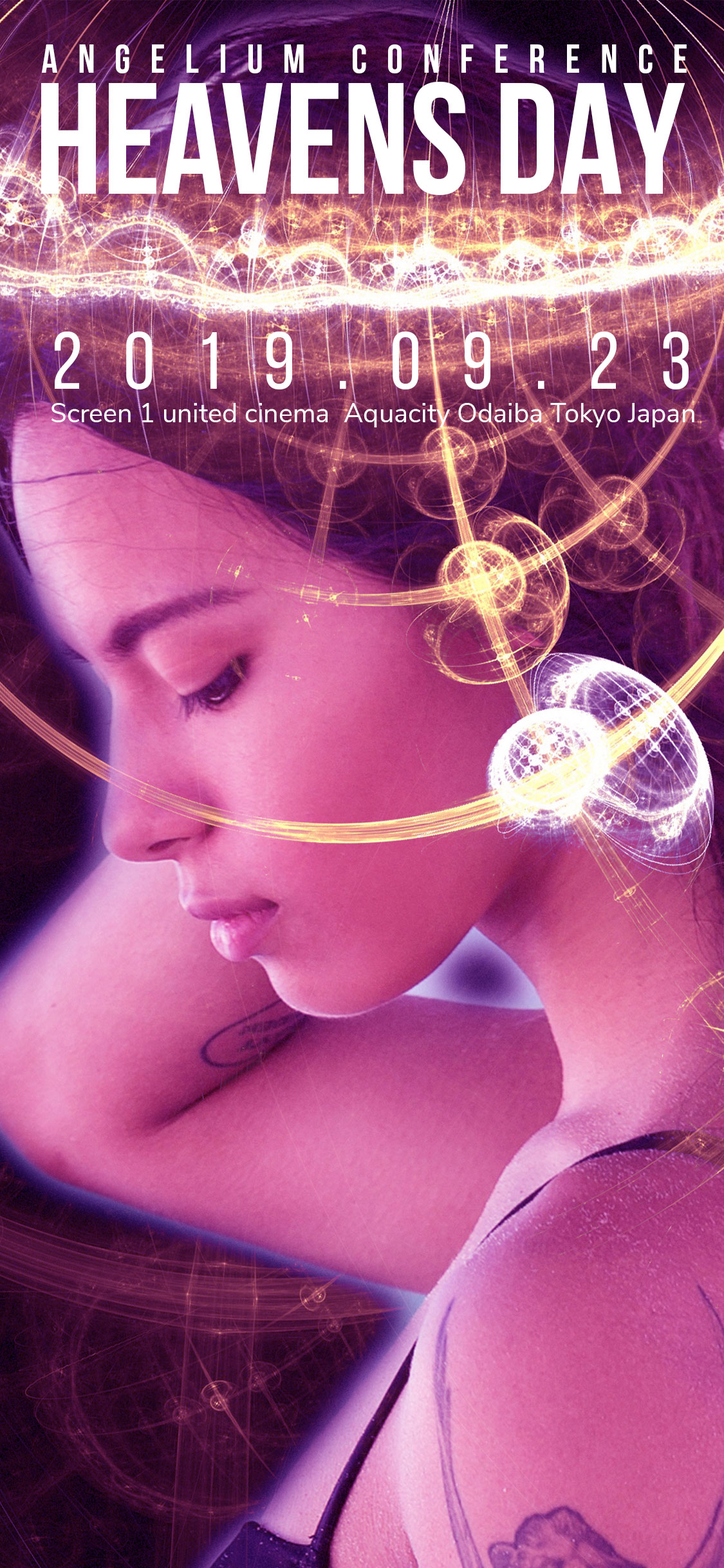
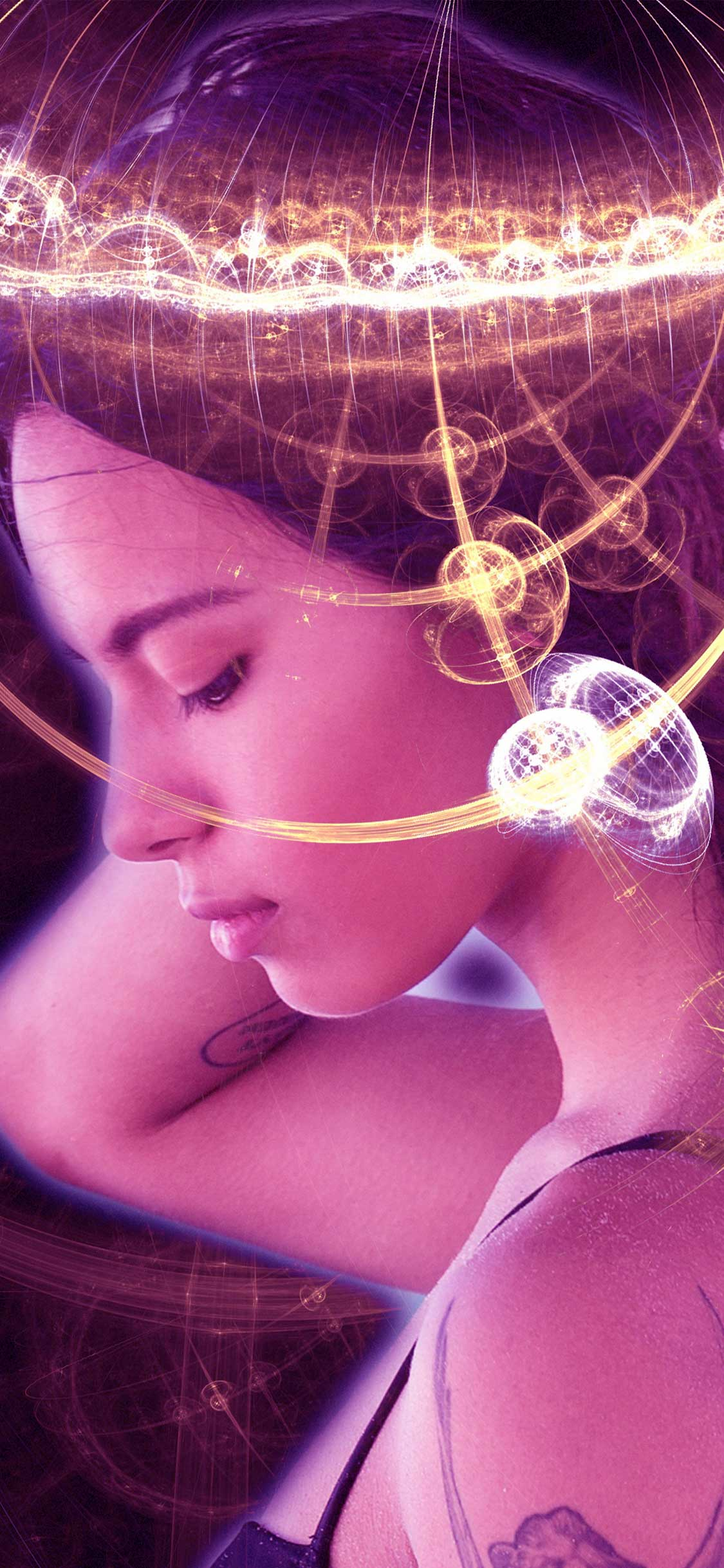
XTicket download with jpeg

diff --git a/src/app/pages/tickets/events-detail/events-detail.component.scss b/src/app/pages/tickets/events-detail/events-detail.component.scss
@@ -240,12 +240,49 @@
     width: 302px;
     height: 645px;
 
+    .event-margin {
+      font-family: nb-theme(font-bebas-bold);
+      text-align: center;
+      position: relative;
+      color: #ffffff;
+      top: 14px;
+      line-height: 0.8;
+
+      .event-sub {
+        font-family: nb-theme(font-bebas);
+        font-size: 20px;
+        letter-spacing: 7px;
+        margin-left: 8px;
+      }
+
+      .event-name {
+        font-size: 63px;
+        letter-spacing: 1px;
+        margin-top: 5px;
+      }
+
+      .event-date {
+        font-size: 34px;
+        letter-spacing: 10px;
+        font-family: nb-theme(font-bebas);
+        margin-top: 56px;
+        margin-left: 8px;
+      }
+
+      .event-location {
+        font-family: nb-theme(font-nunito);
+        font-size: 11px;
+        margin-top: 8px;
+        letter-spacing: 0.5px;
+      }
+    }
+
     .qrcode-margin {
       font-family: nb-theme(font-bebas-bold);
       text-align: center;
       position: relative;
       color: #ffffff;
-      top: 56%;
+      top: 30%;
 
       .ticket-name {
         font-size: 45px;

diff --git a/src/app/pages/tickets/events-detail/events-detail.component.ts b/src/app/pages/tickets/events-detail/events-detail.component.ts
@@ -254,12 +254,18 @@ export class EventsDetailComponent implements OnInit {
       const elementToPrint = document.getElementById('img-download');
       html2canvas(elementToPrint, {'scale': 1})
         .then(canvas => {
-          const pdf = new jsPDF('p', 'px', [350, 758]);
-          const data = canvas.toDataURL('image/png');
-          pdf.addImage(data, 'PNG', 0, 0, 264, 572);
-          pdf.save(`Ticket-${this.ticketData.name}.pdf`);
-          this.downloadingTicket = false;
-          dialog.close();
+          const dataUrl = canvas.toDataURL('image/png');
+          const link = document.createElement('a');
+          link.href = dataUrl;
+          link.setAttribute('visibility', 'hidden');
+          link.download = `Ticket-${this.ticketData.name}.jpg`;
+          document.body.appendChild(link);
+          link.click();
+          document.body.removeChild(link);
+          setTimeout(() => {
+            this.downloadingTicket = false;
+            dialog.close();
+          }, 1200);
         });
     }, 0);
   }

diff --git a/src/app/pages/tickets/events-detail/events-detail.component.html b/src/app/pages/tickets/events-detail/events-detail.component.html
@@ -120,6 +120,14 @@
     </nb-card-header>
     <nb-card-body class="image-scroll-card-body">
       <div id="img-download" class="ticket-img">
+        <div class="event-margin">
+          <div class="event-sub">ANGELIUM CONFERENCE</div>
+          <div class="event-name">{{eventDetail?.title}}</div>
+          <div class="event-date">{{eventDetail?.start_date | date: 'yyyy . MM . dd'}}</div>
+          <div class="event-location">
+            {{eventDetail?.adddress_line_1 | titlecase}} &nbsp;&nbsp;&nbsp; {{eventDetail?.adddress_line_2 | titlecase}}
+          </div>
+        </div>
         <div class="qrcode-margin">
           <div class="ticket-name">{{ticketData?.ticket_name}}</div>
           <img [src]="ticketData?.qrcode" class="qr-code-class">
